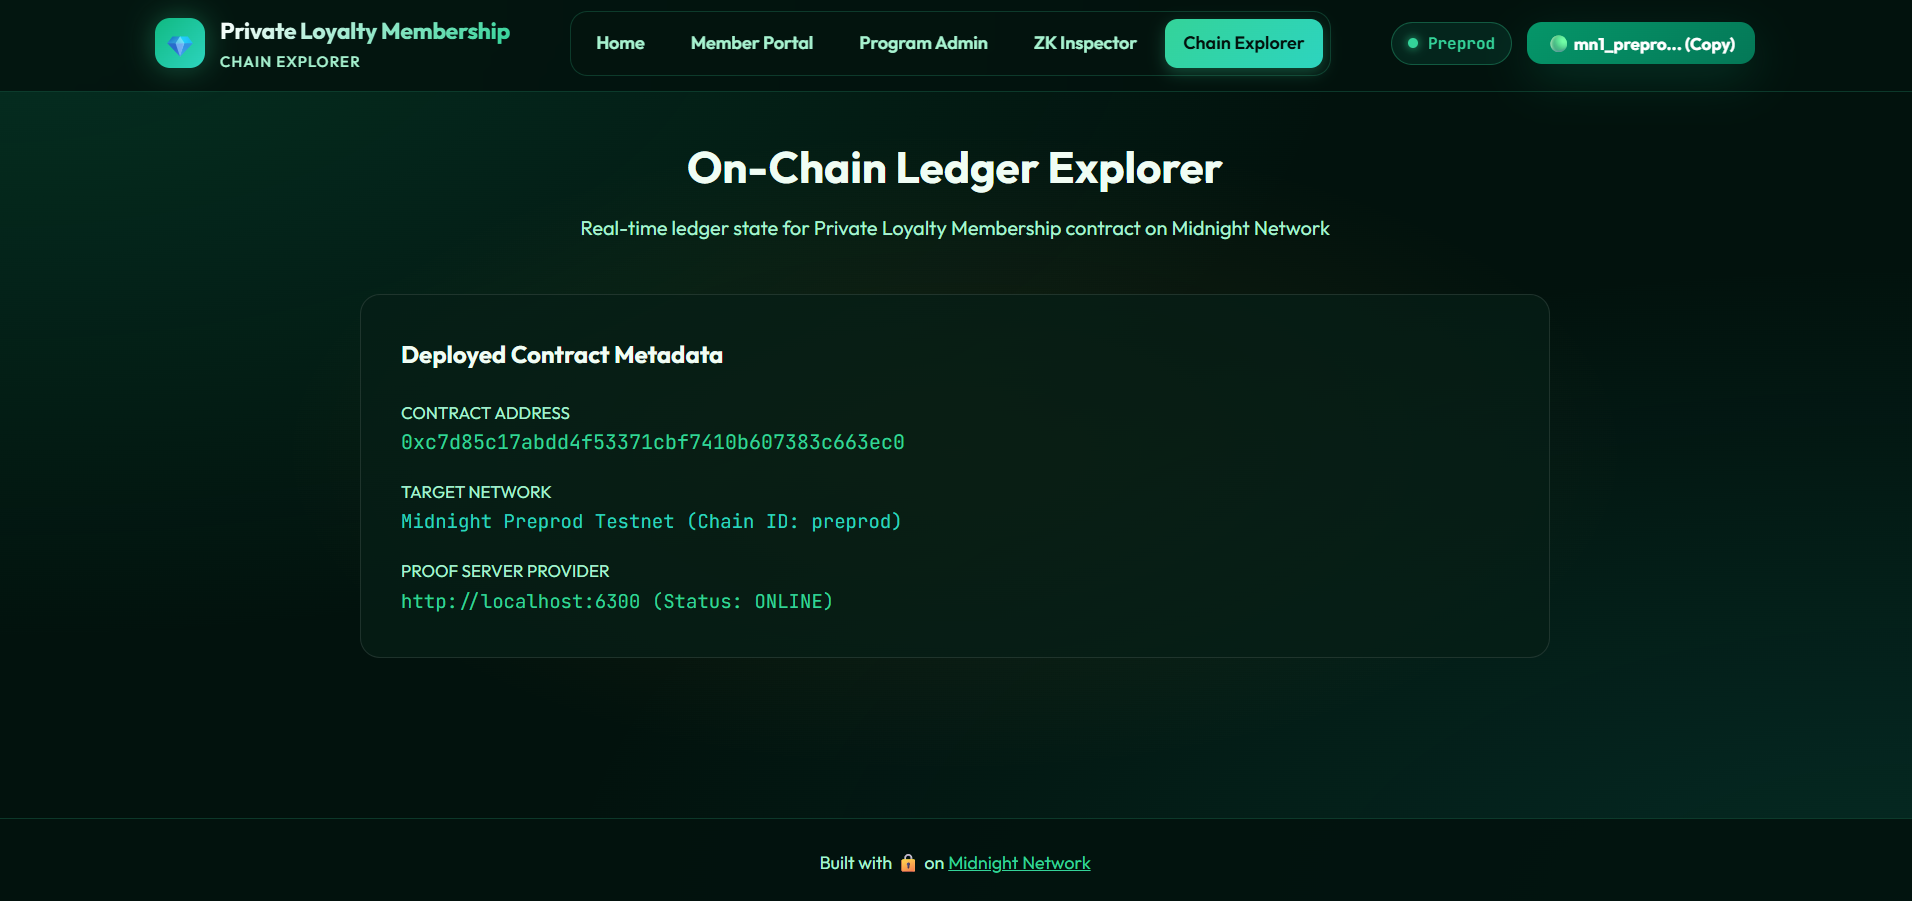
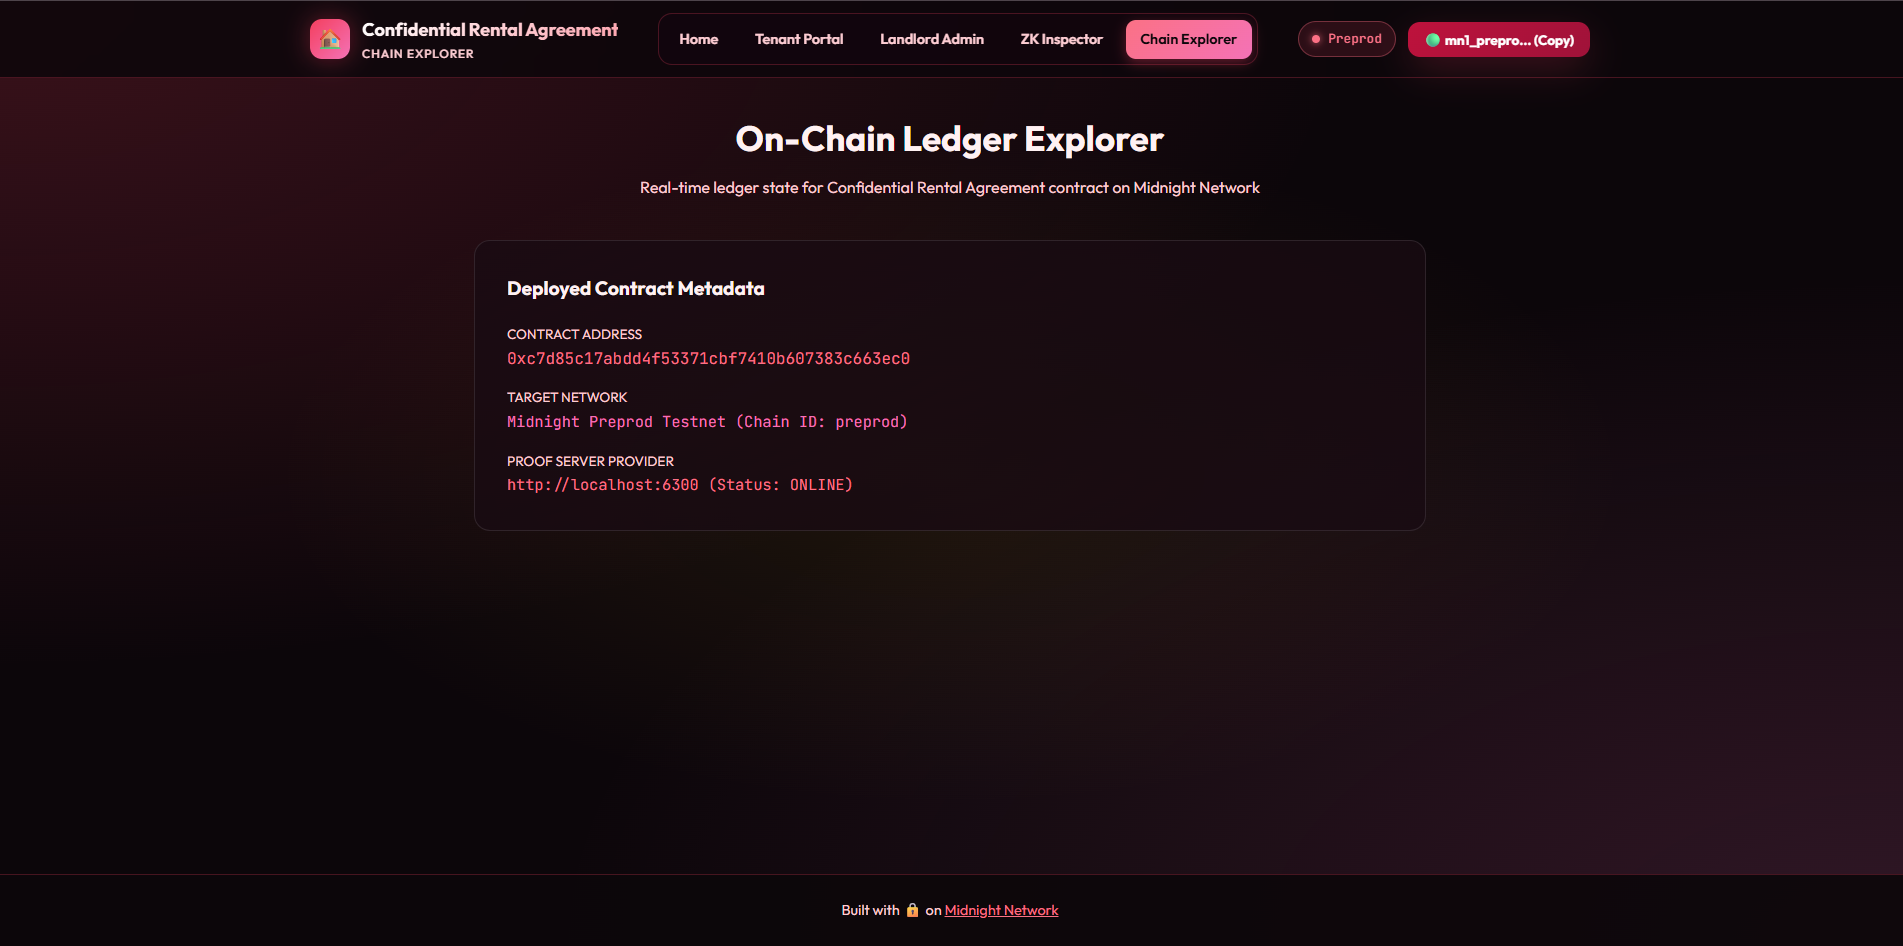
docs: add Vercel deployment link, YouTube video URL, and updated platform screenshots for CRA

Changed region(s): [[0.0, 0.0, 0.9301, 0.5905], [0.0, 0.5905, 1.0, 0.9945], [0.186, 0.6215, 0.4341, 0.6837]]

diff --git a/README.md b/README.md
@@ -2,6 +2,8 @@
 > A privacy-preserving zero-knowledge tenant qualification & lease signing dApp built on the Midnight Network using Compact smart contracts.
 
 [![GitHub Repo](https://img.shields.io/badge/GitHub-confidential--rental--aggreement-181717?style=flat-square&logo=github)](https://github.com/techyguy22674/confidential-rental-aggreement)
+[![Vercel Deployment](https://img.shields.io/badge/Vercel-confidential--rental--aggreement.vercel.app-000000?style=flat-square&logo=vercel)](https://confidential-rental-aggreement.vercel.app/)
+[![YouTube Demo](https://img.shields.io/badge/YouTube-Demo_Video-FF0000?style=flat-square&logo=youtube)](https://youtu.be/LYaO_T9eguU)
 [![CI/CD Pipeline](https://github.com/techyguy22674/confidential-rental-aggreement/actions/workflows/ci.yml/badge.svg)](https://github.com/techyguy22674/confidential-rental-aggreement/actions/workflows/ci.yml)
 [![Midnight Network](https://img.shields.io/badge/Network-Midnight_Preprod-8b5cf6?style=flat-square)](https://explorer.preprod.midnight.network)
 [![Compact Language](https://img.shields.io/badge/Compact-v0.23-e11d48?style=flat-square)](https://midnight.network)
@@ -21,6 +23,8 @@
 ## 🏗 Repository & Deployment
 
 - 📦 **GitHub Repository**: [https://github.com/techyguy22674/confidential-rental-aggreement](https://github.com/techyguy22674/confidential-rental-aggreement)
+- 🚀 **Vercel Live Demo**: [https://confidential-rental-aggreement.vercel.app/](https://confidential-rental-aggreement.vercel.app/)
+- 🎥 **YouTube Demo Video**: [https://youtu.be/LYaO_T9eguU](https://youtu.be/LYaO_T9eguU)
 - ⚙ **CI/CD Workflow**: [.github/workflows/ci.yml](.github/workflows/ci.yml)
 - 🌐 **Midnight Explorer**: [https://explorer.preprod.midnight.network](https://explorer.preprod.midnight.network)
 - 📡 **Network**: Midnight Preprod Testnet
@@ -160,4 +164,6 @@ npx tsx src/integration/deploy.ts
 - [x] **Interactive Web UI**: Unique Crimson Rose & Obsidian Velvet glassmorphic UI with HTML5, CSS3, & TypeScript.
 - [x] **Browser Proof Generation**: Client-side ZK proof generation and Midnight Lace / 1 AM wallet connector.
 - [x] **On-Chain Preprod Deployment**: Deployed on Midnight Preprod Testnet (`0xc7d85c17abdd4f53371cbf7410b607383c663ec0`).
+- [x] **Live Vercel Deployment**: Deployed at [https://confidential-rental-aggreement.vercel.app/](https://confidential-rental-aggreement.vercel.app/).
+- [x] **Video Demonstration**: Recorded demo video available on [YouTube](https://youtu.be/LYaO_T9eguU).
 - [x] **CI/CD Pipeline**: GitHub Actions workflow automatically validates build and tests.
